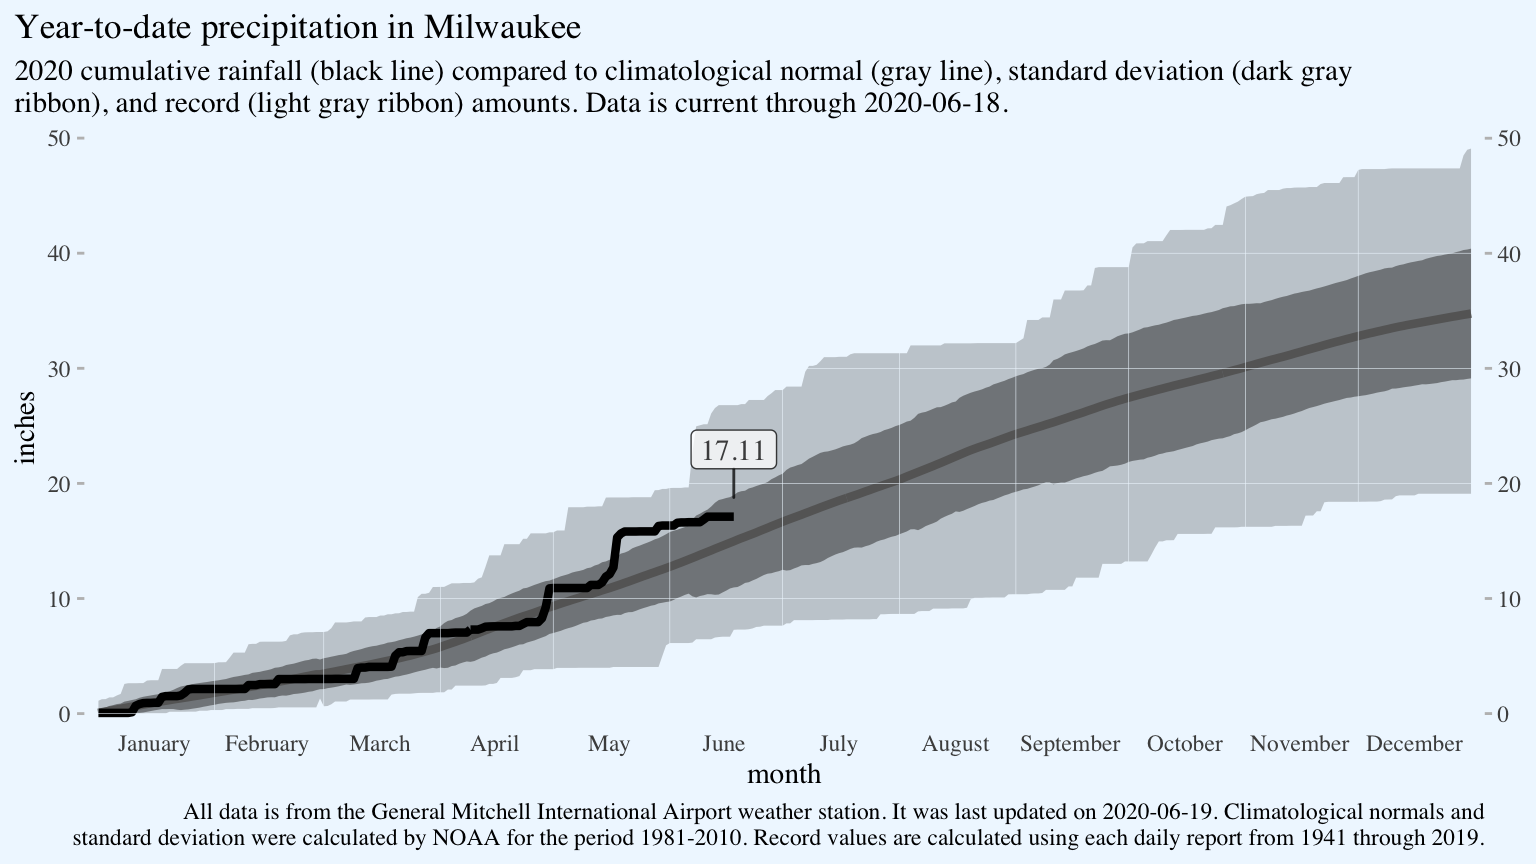
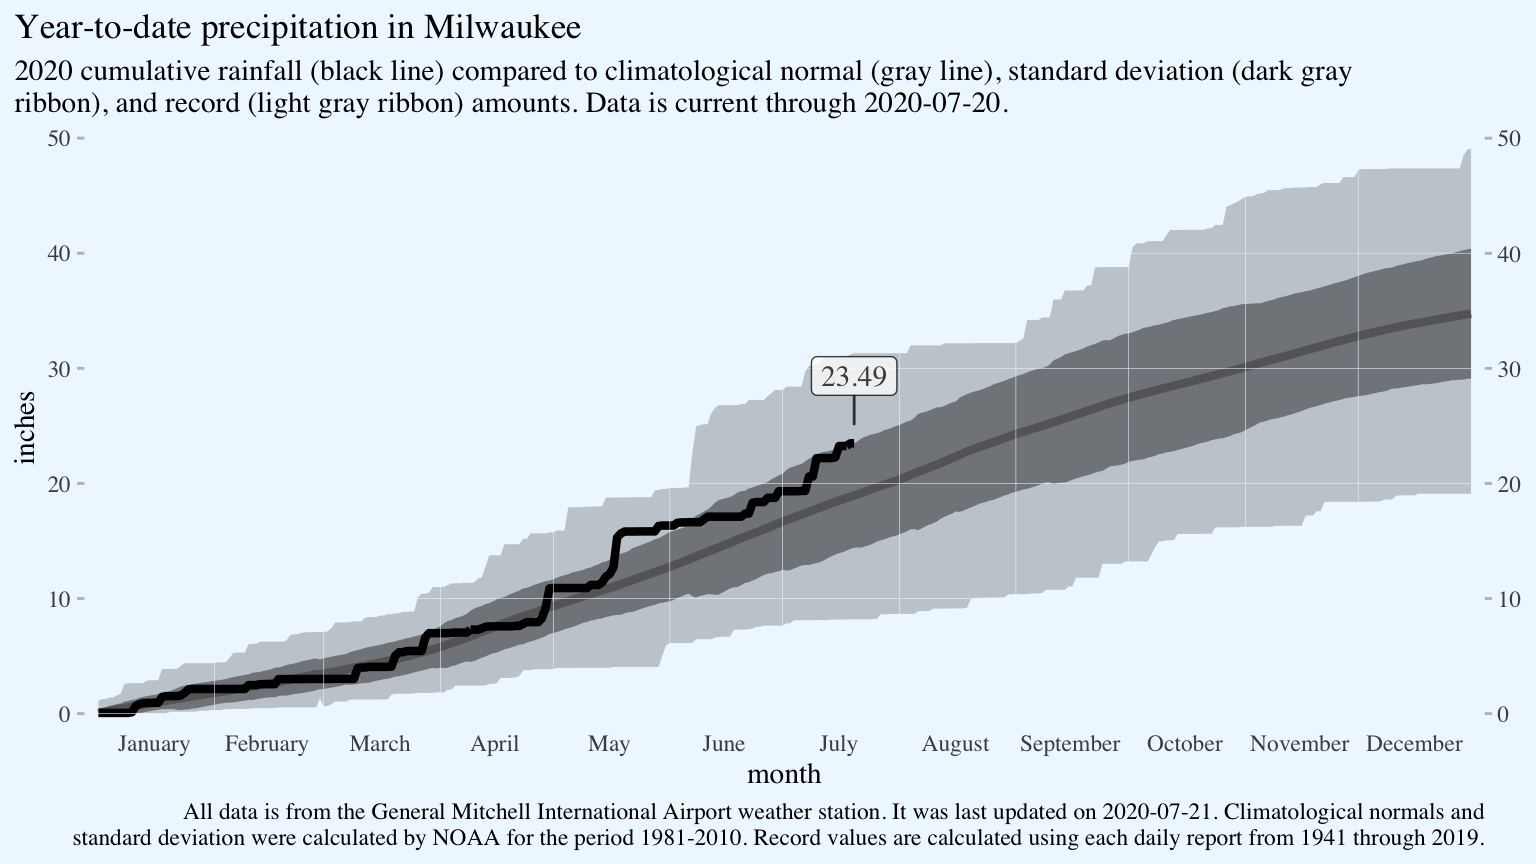
update weather

Changed region(s): [[0.4375, 0.4688, 0.5625, 0.625], [0.5312, 0.4062, 0.5938, 0.4688], [0.5938, 0.0938, 0.6562, 0.125]]

diff --git a/content/MilwaukeeWeather.html b/content/MilwaukeeWeather.html
@@ -7,7 +7,7 @@ output: html_document
 
 
 
-<p>The National Oceanic and Atmospheric Association weather station at General Mitchell International Airport hasn’t missed a daily weather report since 1941. These graphs show 2020 cumulative preciptiation, daily high temperature, and daily low compared to the past 79 years of weather reports at General Mitchell. The graphs show 2020 weather data through 2020-06-18. The code was last run on 2020-06-19.</p>
+<p>The National Oceanic and Atmospheric Association weather station at General Mitchell International Airport hasn’t missed a daily weather report since 1941. These graphs show 2020 cumulative preciptiation, daily high temperature, and daily low compared to the past 79 years of weather reports at General Mitchell. The graphs show 2020 weather data through 2020-07-20. The code was last run on 2020-07-21.</p>
 <p>Climatological normals were calculated by NOAA over the period 1981-2010. The record values presented in these graphs are simply the records recorded from 1941 through 2019 at this specific weather station. They are not necessarily the same as NOAA’s official daily records for Milwaukee, which combine multiple weather stations and cover a longer period of time. Those are <a href="https://www.weather.gov/mkx/normal-records-mke_msn">available here</a>.</p>
 <p><img src="/MilwaukeeWeather_files/figure-html/unnamed-chunk-1-1.png" width="768" style="display: block; margin: auto;" /></p>
 <p><img src="/MilwaukeeWeather_files/figure-html/unnamed-chunk-2-1.png" width="768" style="display: block; margin: auto;" /></p>
